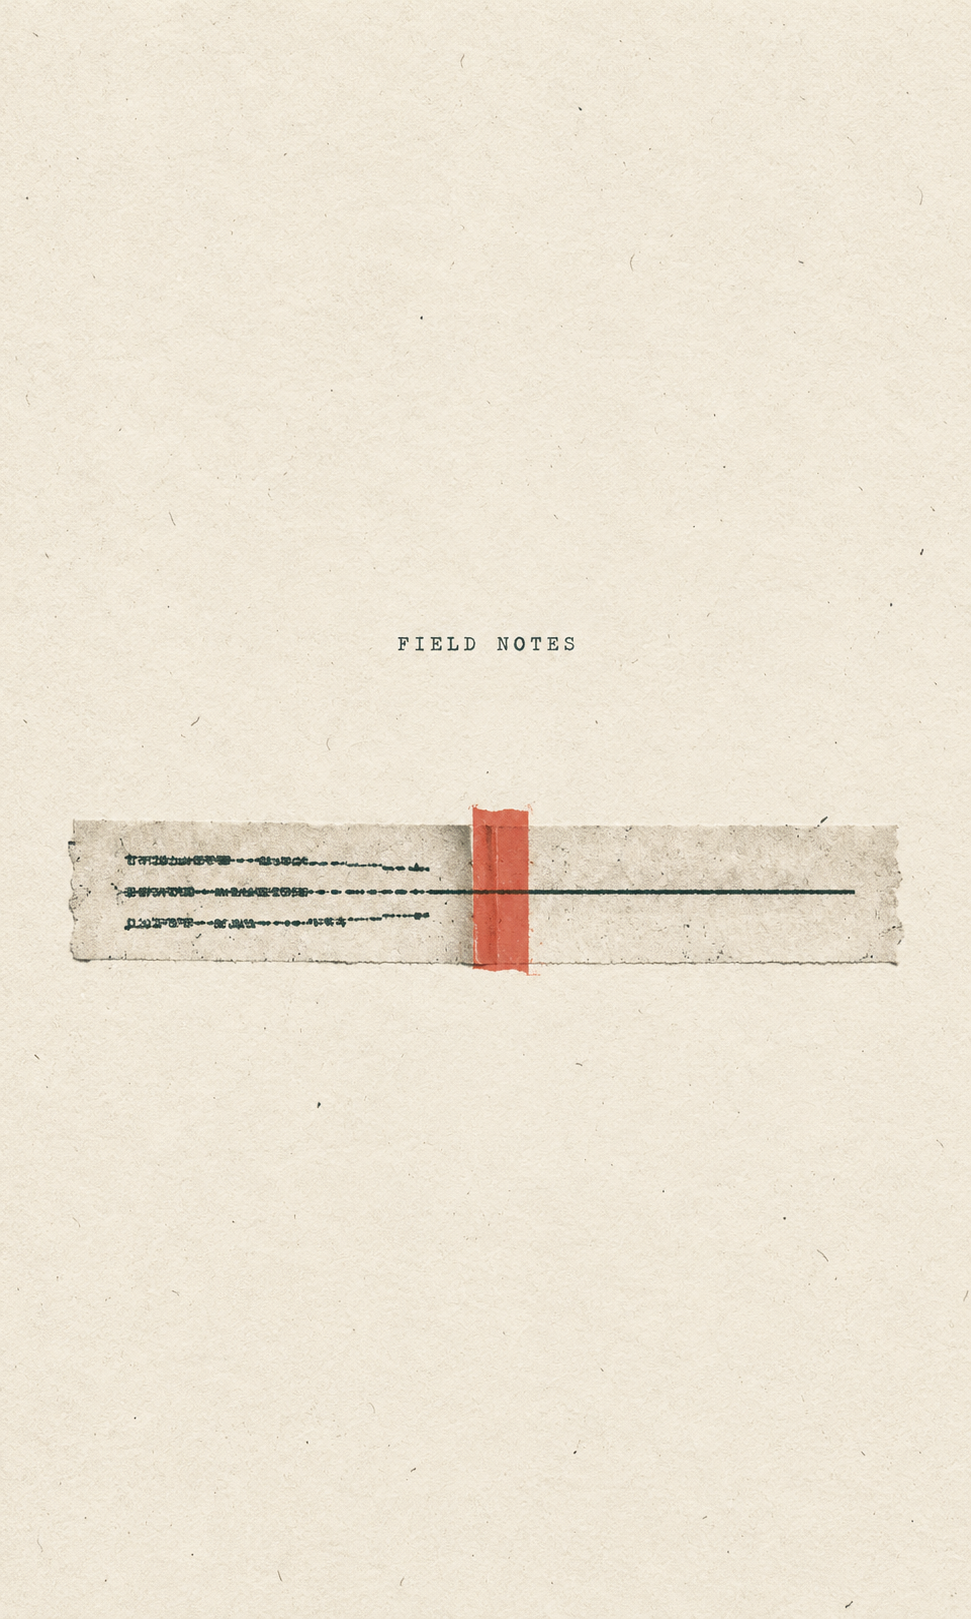
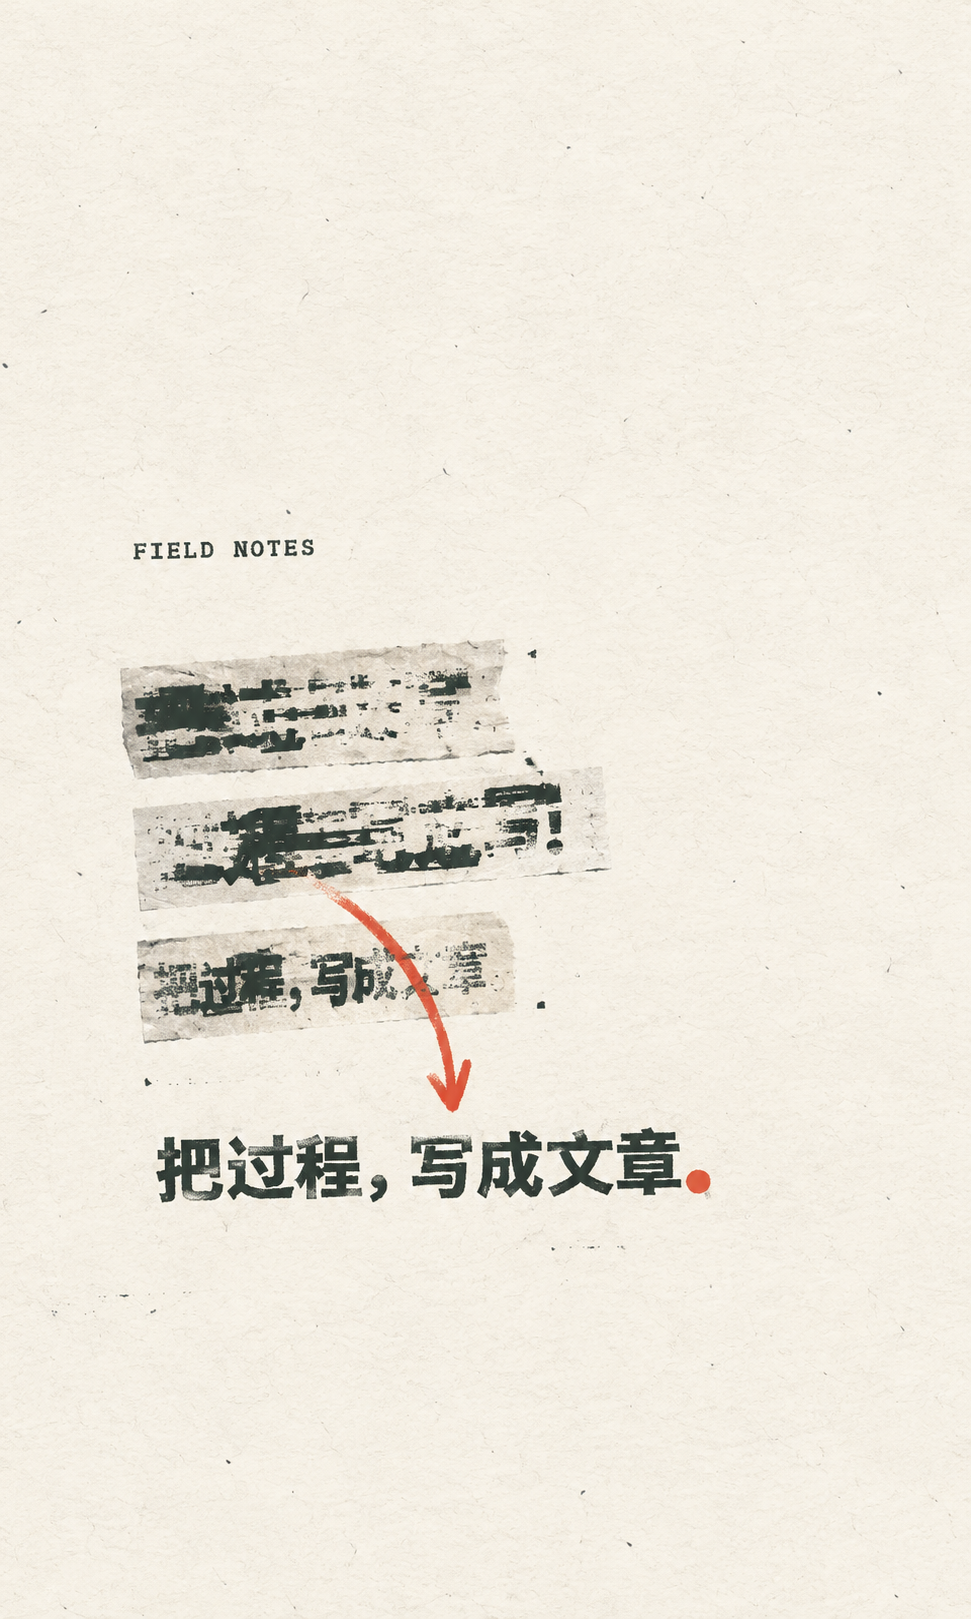
Use approved article artwork in portfolio card

Changed region(s): [[0.0618, 0.3706, 0.9269, 0.7412], [0.1545, 0.3088, 0.2163, 0.3706], [0.2472, 0.3088, 0.309, 0.3397]]

diff --git a/client/src/index.css b/client/src/index.css
@@ -452,3 +452,7 @@ a { color: inherit; text-decoration: none; }
 .about-visit{display:inline-block;margin-top:28px;padding-bottom:5px;border-bottom:1px solid currentColor;font-size:14px}.about-panel{padding-bottom:50px}
 @media(max-width:800px){.portfolio-row{min-height:245px;grid-template-columns:27px minmax(0,1fr) 25px;row-gap:25px}.portfolio-row .case-copy h3{font-size:25px}.portfolio-row .case-copy>span{font-size:12px;line-height:1.85;margin-top:12px}.portfolio-row .case-copy p{font-size:9px}.portfolio-row .case-no{align-self:start;margin-top:4px}.portfolio-row .case-copy{grid-column:2}.portfolio-row .case-arrow{grid-column:3;grid-row:1}.portfolio-row .paper-mark{display:flex;grid-column:2;grid-row:2;width:164px;justify-self:start;margin:0 0 12px 8px;gap:10px;padding:12px;transform:rotate(-4deg)}}
 @media(max-width:800px){.article-poster{height:185px}.writing-links a{min-height:92px}.writing-link-copy small{font-size:9px}}
+
+/* Show the entire approved article artwork in the portfolio card. */
+.article-poster{height:auto;overflow:visible}
+.article-mark .article-poster img{width:100%;height:auto;aspect-ratio:971/1619;object-fit:contain;object-position:center;transform:none}

diff --git a/docs/homepage-article-platform-v2.md b/docs/homepage-article-platform-v2.md
@@ -1,12 +1,12 @@
 # 主站文章入口与内容平台 · v2
 
-状态：HTML 视觉与交互预览、PRD 及实施发布范围已于 2026-10-12 获用户确认；实施与发布证据另见 Git 提交及验收记录。
+状态：HTML 视觉与交互预览、PRD 及实施发布范围已于 2026-10-12 获用户确认；同日用户进一步明确：第一张“把过程，写成文章”海报用于两站主视觉，第二张纸条图用于文章站 logo。实施与发布证据另见 Git 提交及验收记录。
 
-交互参考：同目录 `index.html`；标识参考 `logo-preview.html`；资产为 `article-cover-zine.png` 和 `article-mark.svg`。
+交互参考：同目录 `index.html`；标识参考 `logo-preview.html`；资产为 `article-cover-zine.png` 和 `article-logo-zine.png`。
 
 ## 目标与范围
 
-让主站访客在「作品集」发现已上线的文章网站，让设计媒体账号集中在「内容平台」栏目。文章站使用同一纸感视觉标识。主站保持现有「案例」「Skills」「关于我」「交流」及纸间入口。文章站现有文章、图片、视频及公开列表保持可访问，私有发布进度不得进入公共资源。
+让主站访客在「作品集」发现已上线的文章网站，让设计媒体账号集中在「内容平台」栏目。文章站与主站文章卡使用同一张纸感主视觉，文章站页头使用配套纸条图标识。主站保持现有「案例」「Skills」「关于我」「交流」及纸间入口。文章站现有文章、图片、视频及公开列表保持可访问，私有发布进度不得进入公共资源。
 
 涉及两个独立站点：主站 `www.fuluoyide.top` 的源码仓库 `372790111z-wq.github.io`，文章站 `blog.fuluoyide.top` 的仓库 `zzq-blog`。分别实施、验证、提交和部署；不修改域名绑定或仓库可见性。
 
@@ -15,11 +15,11 @@
 1. **业务目的**：让文章站拥有与主站及作品集卡片可识别、统一的视觉身份。
 2. **使用者**：文章站所有公开访客。
 3. **触发**：访问文章站首页或浏览器标签；页头现有主站回链所在品牌区域。
-4. **流程**：首页呈现 `article-mark.svg` 与「文章」字样；浏览器标签显示同一标识的 favicon。点击品牌区域仍返回主站。
-5. **规则**：标识以已确认的纸感修订痕迹 SVG 为准；与文章站现有深色页头和浅色背景均可辨认。保留文章站标题、导航、文章列表和阅读器。
+4. **流程**：文章站首页展示完整 `article-cover-zine.png` 海报；页头呈现 `article-logo-zine.png` 与「文章」字样；浏览器标签显示纸条图 favicon。点击品牌区域仍返回主站。
+5. **规则**：海报以第一张“把过程，写成文章”原图为准；logo 以第二张 FIELD NOTES 纸条图原图为准。两者在深色页头与主站浅色作品集卡中保持可辨认。保留文章站标题、导航、文章列表和阅读器。
 6. **边界**：无账号、动画、上传或后台功能；图片加载失败时文字仍可识别，品牌链接仍可点击。不得让设计预览文案或私有发布进度进入正式站。
-7. **数据**：固定本地 SVG 资产和文字；无接口或持久化数据。
-8. **验收**：桌面与手机页头均清晰；favicon 可被浏览器获取；品牌点击打开主站；文章列表、阅读、图片及视频仍可正常使用；公开资源中无私有发布进度。
+7. **数据**：固定本地 PNG 资产和文字；无接口或持久化数据。
+8. **验收**：桌面与手机页头完整展示海报，logo 清晰；favicon 可被浏览器获取；品牌点击打开主站；文章列表、阅读、图片及视频仍可正常使用；公开资源中无私有发布进度。
 
 ## 功能二：主站作品集中的文章入口
 
@@ -27,7 +27,7 @@
 2. **使用者**：主站所有公开访客。
 3. **触发**：首页「作品集」标签；文章卡标识 `portfolio-article-link`。
 4. **流程**：访客切换至作品集，先看到既有纸间卡，再看到文章卡；点击文章卡，在新标签打开 `https://blog.fuluoyide.top/`，原站保留当前状态。
-5. **规则**：标题「文章 · AI 产品与实践记录」；说明「把真实过程写成文章。从产品判断到工具实践，留下完整记录。」；卡片使用已确认的 `article-cover-zine.png` 纸感海报，遵循现有网格、字号、边线与纸间卡结构；外链使用 `noopener noreferrer`。纸间保持第一项，文章为第二项。
+5. **规则**：标题「文章 · AI 产品与实践记录」；说明「把真实过程写成文章。从产品判断到工具实践，留下完整记录。」；卡片使用第一张 `article-cover-zine.png` 纸感海报，完整呈现画面，遵循现有网格、字号、边线与纸间卡结构；外链使用 `noopener noreferrer`。纸间保持第一项，文章为第二项。
 6. **边界**：文章站不可用时不伪称打开成功，原站仍可访问；不嵌入文章站、不复制文章内容、不显示发布进度。窄屏无横向页面溢出。
 7. **数据**：固定标题、说明、URL、图片和稳定标识；无新增接口或本地持久状态。
 8. **验收**：纸间与文章两项顺序正确且各出现一次；文章卡打开正确域名；海报加载成功；键盘可聚焦；桌面和约 390px 手机布局与已确认 HTML 相符。
